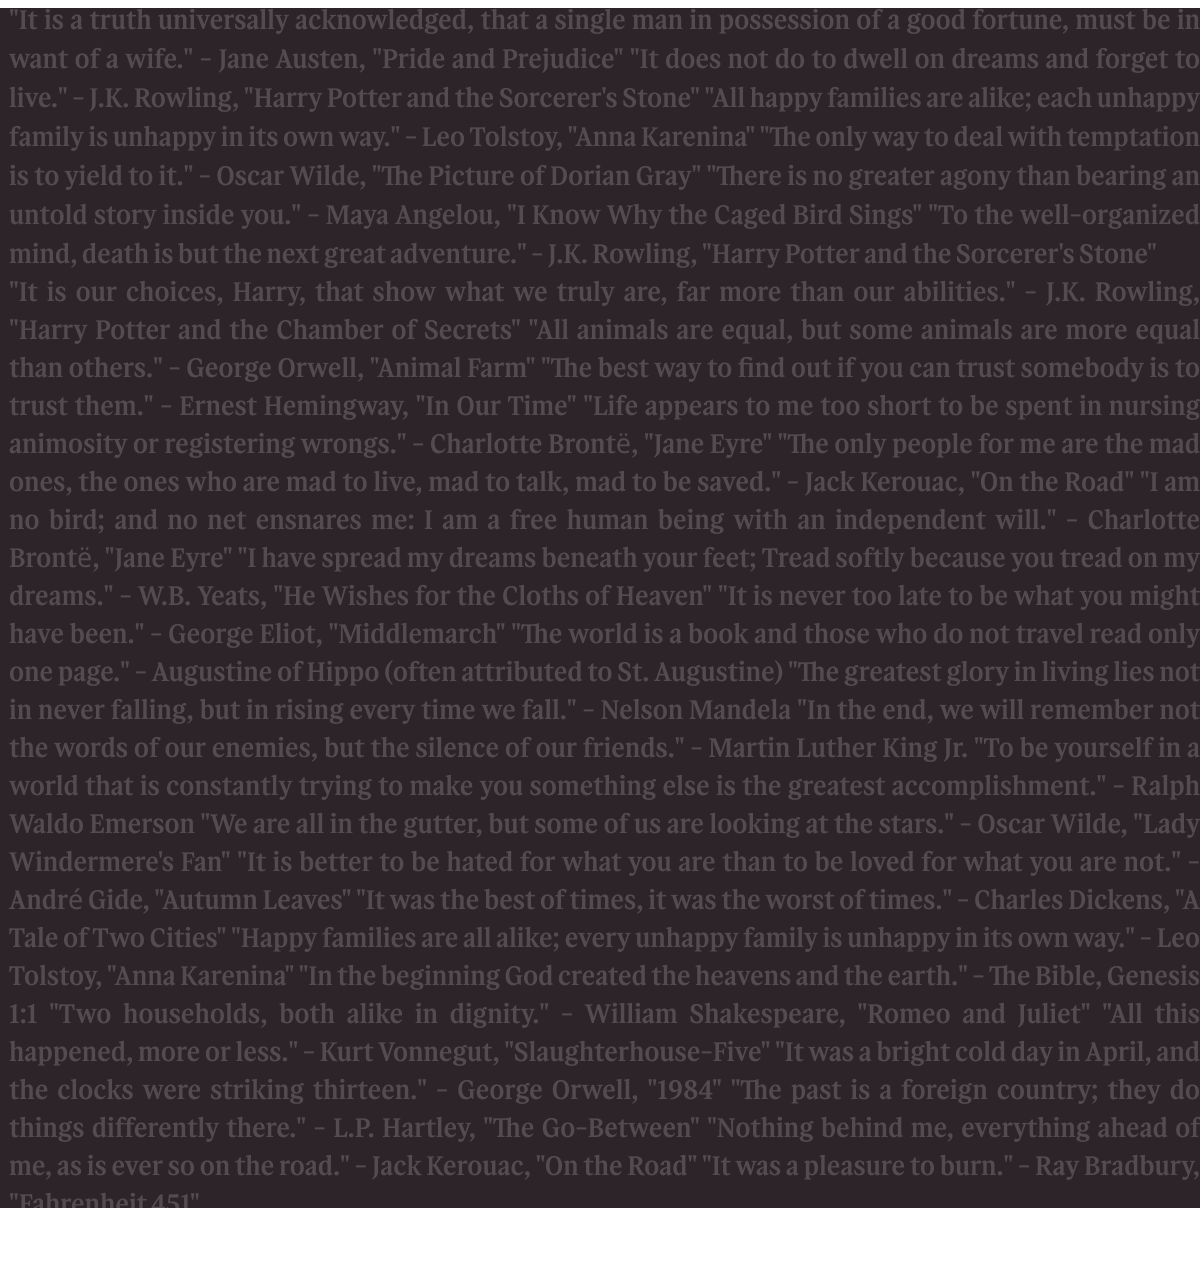
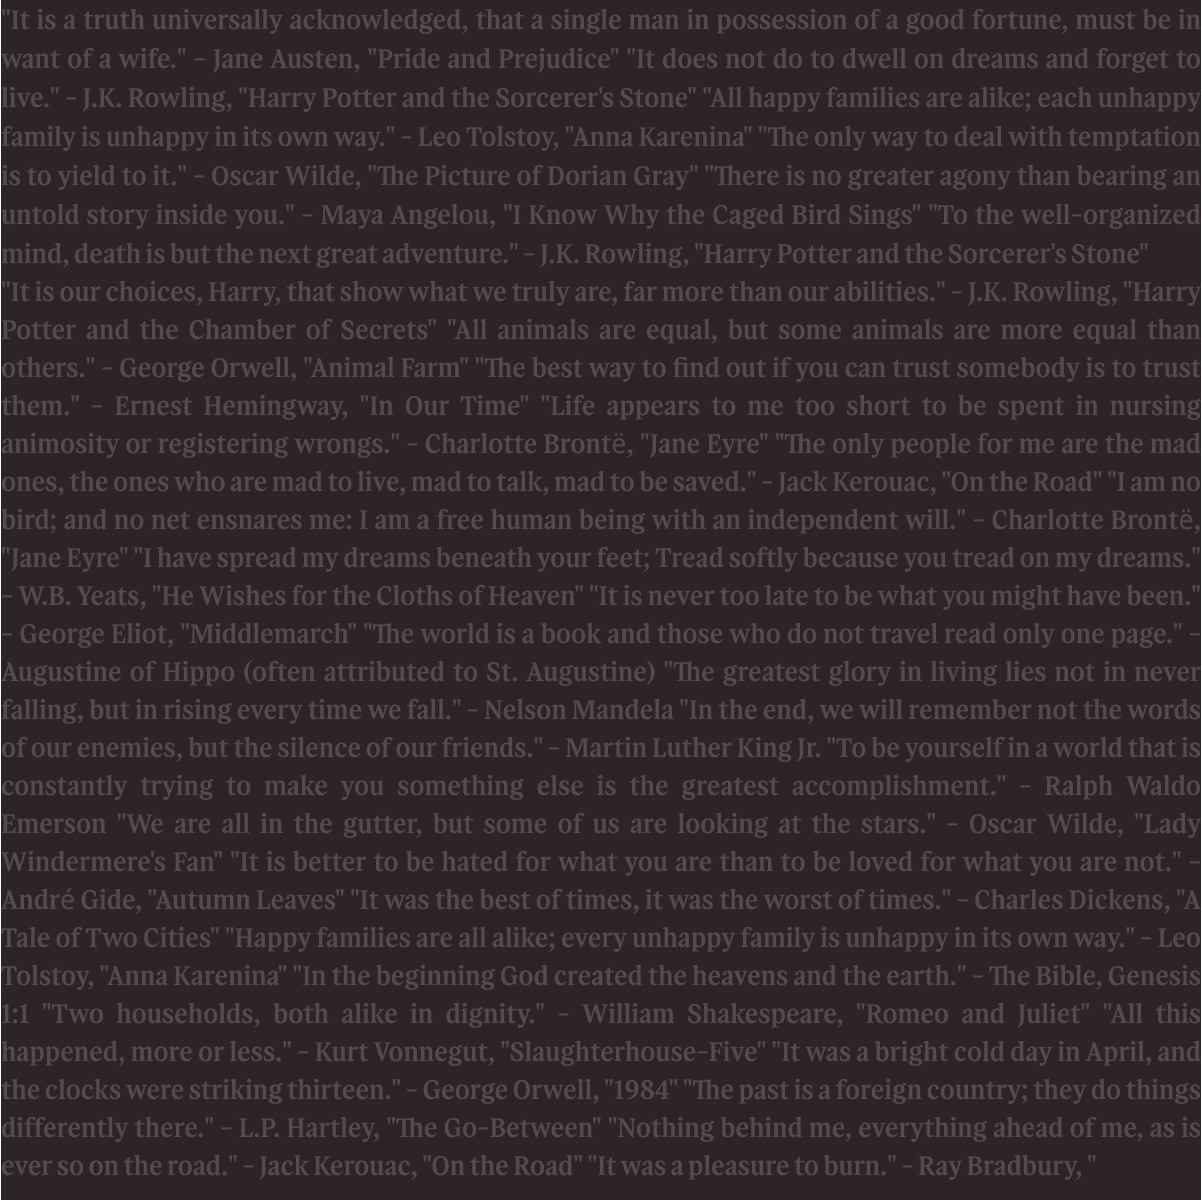
Chore: Added Sign Up screen, Fix: Fixed image background

Changed region(s): [[0.0, 0.0, 1.0, 1.0]]

diff --git a/screens/SignUp.js b/screens/SignUp.js
@@ -15,9 +15,7 @@ import { KeyboardAwareScrollView } from "react-native-keyboard-aware-scroll-view
 import { NavigationContainer, useNavigation } from "@react-navigation/native";
 import BackgroundAnimation from "../Components/ImageBackground.js";
 
-export default function SignIn() {
-  const navigation = useNavigation();
-
+export default function SignUp() {
   return (
     <View style={{ flex: 1 }}>
       <StatusBar style="light" backgroundColor="#2D2429" />
@@ -26,11 +24,11 @@ export default function SignIn() {
           position: "absolute",
           width: "100%",
           height: "100%",
-          backgroundColor: "#2D2429",
+          backgroundColor: "#C8C2D3",
         }}
       >
         <BackgroundAnimation
-          imageSource={require("../assets/images/backgroundSignIn.png")}
+          imageSource={require("../assets/images/backgroundSignUp.png")}
         />
       </View>
       <KeyboardAwareScrollView
@@ -52,17 +50,12 @@ export default function SignIn() {
           />
         </View>
         <TouchableOpacity
-          style={styles.signUpButton}
+          style={styles.createAccountButton}
           onPress={() => {
             /* handle sign up here */
           }}
         >
-          <Text style={styles.buttonText}>Sign in</Text>
-        </TouchableOpacity>
-        <TouchableOpacity onPress={() => navigation.navigate("SignUp")}>
-          <Text style={styles.createAccount}>
-            Don't have an account? Create one!
-          </Text>
+          <Text style={styles.buttonText}>Create Account</Text>
         </TouchableOpacity>
       </KeyboardAwareScrollView>
     </View>
@@ -77,7 +70,7 @@ const styles = StyleSheet.create({
 
   logo: {
     fontFamily: "BrightCircle",
-    color: "#ECEFE8",
+    color: "#2D2429",
     fontSize: 75,
     marginBottom: 50,
   },
@@ -109,9 +102,9 @@ const styles = StyleSheet.create({
     width: 267,
     height: 46,
   },
-  signUpButton: {
+  createAccountButton: {
     elevation: 8,
-    backgroundColor: "#C8C2D3",
+    backgroundColor: "#2D2429",
     borderRadius: 32,
     paddingVertical: 11,
     paddingHorizontal: 70,
@@ -120,7 +113,7 @@ const styles = StyleSheet.create({
   buttonText: {
     fontFamily: "GartSerif",
     fontSize: 24,
-    color: "#2D2429",
+    color: "#ECEFE8",
   },
   createAccount: {
     fontFamily: "GartSerif",

diff --git a/App.js b/App.js
@@ -14,6 +14,7 @@ import { useFonts } from "expo-font";
 import { NavigationContainer } from "@react-navigation/native";
 import { createStackNavigator } from "@react-navigation/stack";
 import SignIn from "./screens/SignIn";
+import SignUp from "./screens/SignUp";
 
 const Stack = createStackNavigator();
 
@@ -32,7 +33,15 @@ export default function App() {
           name="SignIn"
           component={SignIn}
           options={{
-            title: "Home",
+            title: "SignIn",
+            headerShown: false,
+          }}
+        />
+        <Stack.Screen
+          name="SignUp"
+          component={SignUp}
+          options={{
+            title: "SignUp",
             headerShown: false,
           }}
         />

diff --git a/Components/ImageBackground.js b/Components/ImageBackground.js
@@ -53,7 +53,6 @@ export default function BackgroundAnimation({ imageSource }) {
           },
         ]}
         source={imageSource}
-        resizeMode="cover"
       />
       <AnimatedImage
         style={[
@@ -67,7 +66,6 @@ export default function BackgroundAnimation({ imageSource }) {
           },
         ]}
         source={imageSource}
-        resizeMode="cover"
       />
     </View>
   );
@@ -77,12 +75,11 @@ const styles = StyleSheet.create({
   container: {
     flex: 1,
     flexDirection: "row",
-    marginTop: -20,
   },
 
   background: {
     width: 1200,
-    height: screenHeight + 100,
-    marginLeft: -5,
+    height: screenHeight,
+    marginLeft: -2.5,
   },
 });
